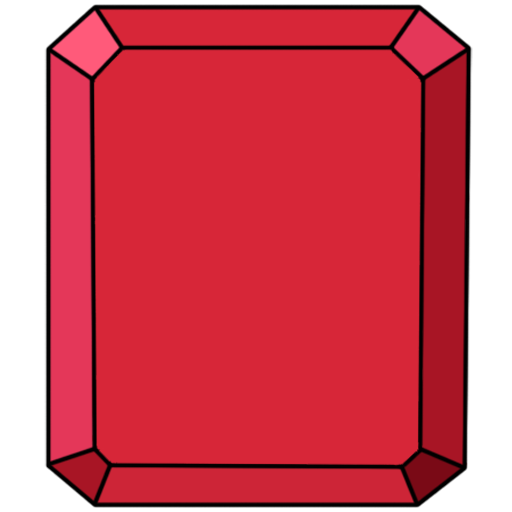
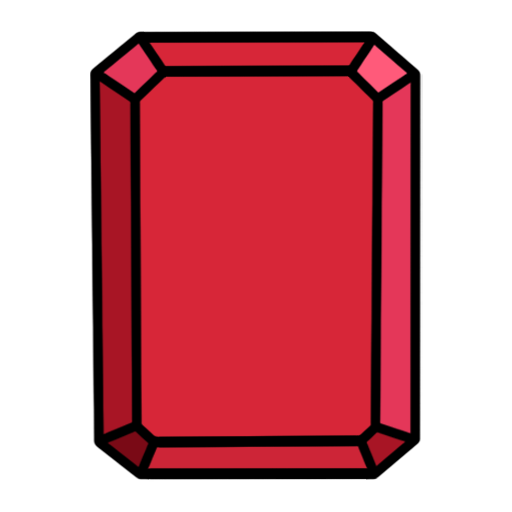
#17, #18 - Change images and reposition characters.
Cleric - Remove defects.

Emerald, Ruby, Sapphire, Topaz - Scale them looks uniformly. Strength outlines.

Gem - Now it sets sprite to initialize it by GemColor.

diff --git a/Project_JM/Assets/Scripts/Puzzle/Gems/Gem.cs b/Project_JM/Assets/Scripts/Puzzle/Gems/Gem.cs
@@ -13,10 +13,24 @@ public class Gem : MonoBehaviour
 {
     public GemColor Color { get; private set; }
 
+    [Header("Sprite References")]
+    public Sprite redSprite;
+    public Sprite greenSprite;
+    public Sprite blueSprite;
+    public Sprite yellowSprite;
+
     public void Init(GemColor gemColor)
     {
         Color = gemColor;
-        GetComponent<SpriteRenderer>().color = GemColorUtility.ConvertGemColor(gemColor);
+
+        if (Color == GemColor.None)
+        {
+            GetComponent<SpriteRenderer>().color = GemColorUtility.ConvertGemColor(gemColor);
+        }
+        else
+        {
+            GetComponent<SpriteRenderer>().sprite = GetSpriteByColor(gemColor);
+        }
     }
 
     // Start is called once before the first execution of Update after the MonoBehaviour is created
@@ -29,5 +43,17 @@ public class Gem : MonoBehaviour
     void Update()
     {
 
+    }
+
+    protected Sprite GetSpriteByColor(GemColor color)
+    {
+        return color switch
+        {
+            GemColor.Red => redSprite,
+            GemColor.Blue => blueSprite,
+            GemColor.Green => greenSprite,
+            GemColor.Yellow => yellowSprite,
+            _ => null
+        };
     }
 }
